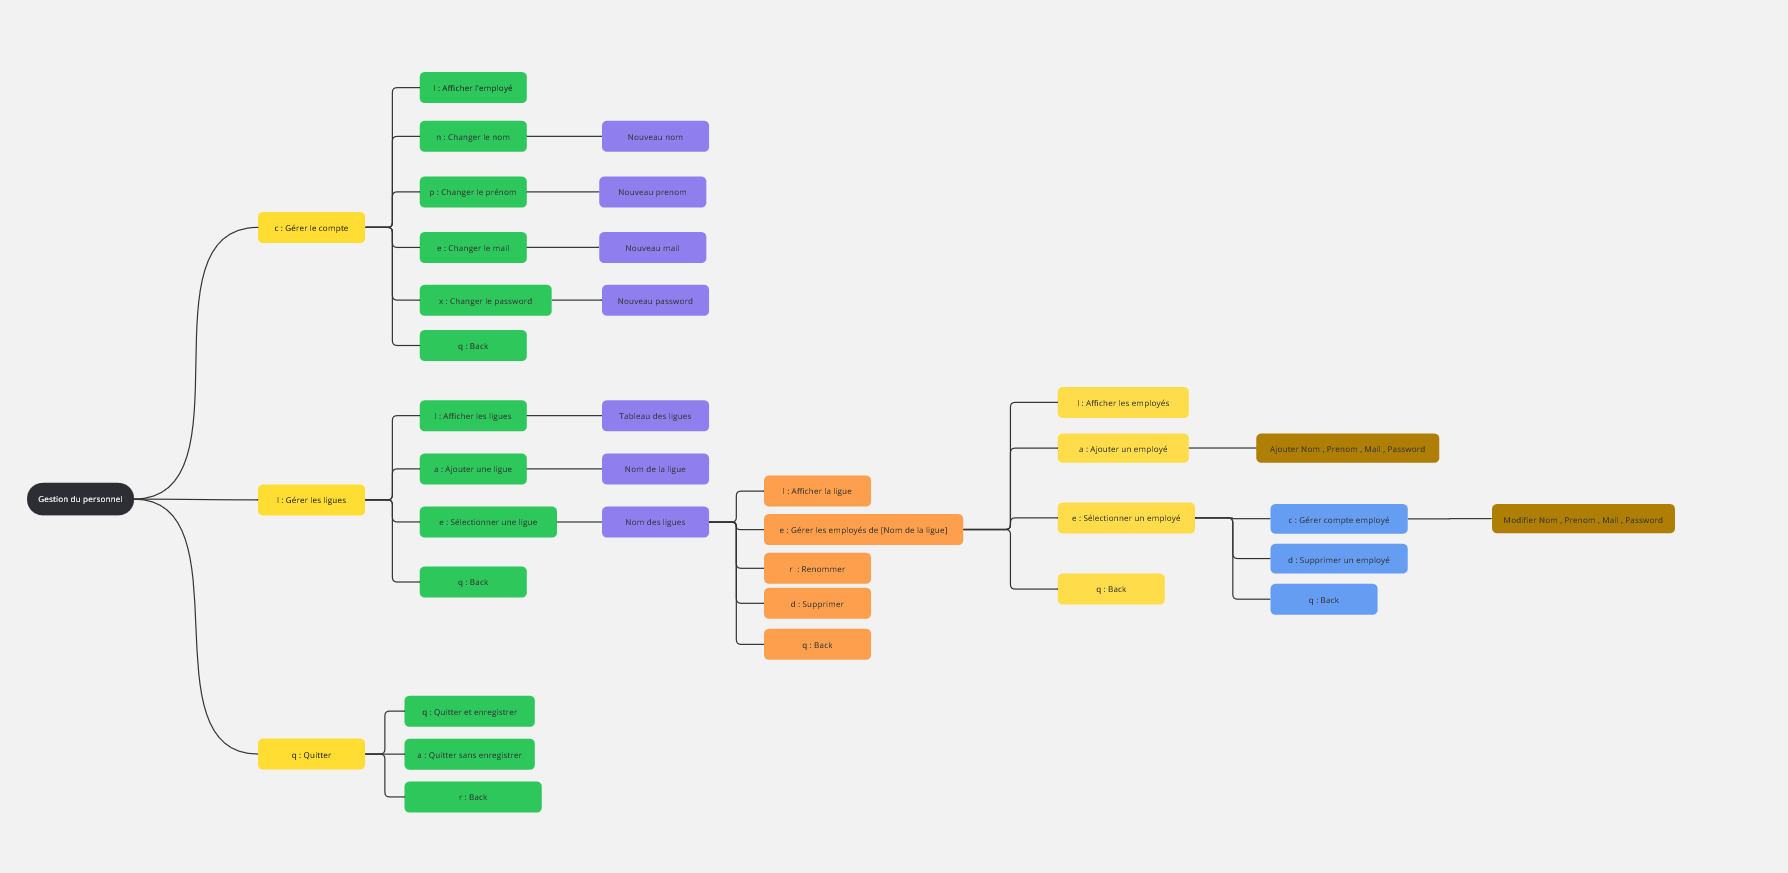
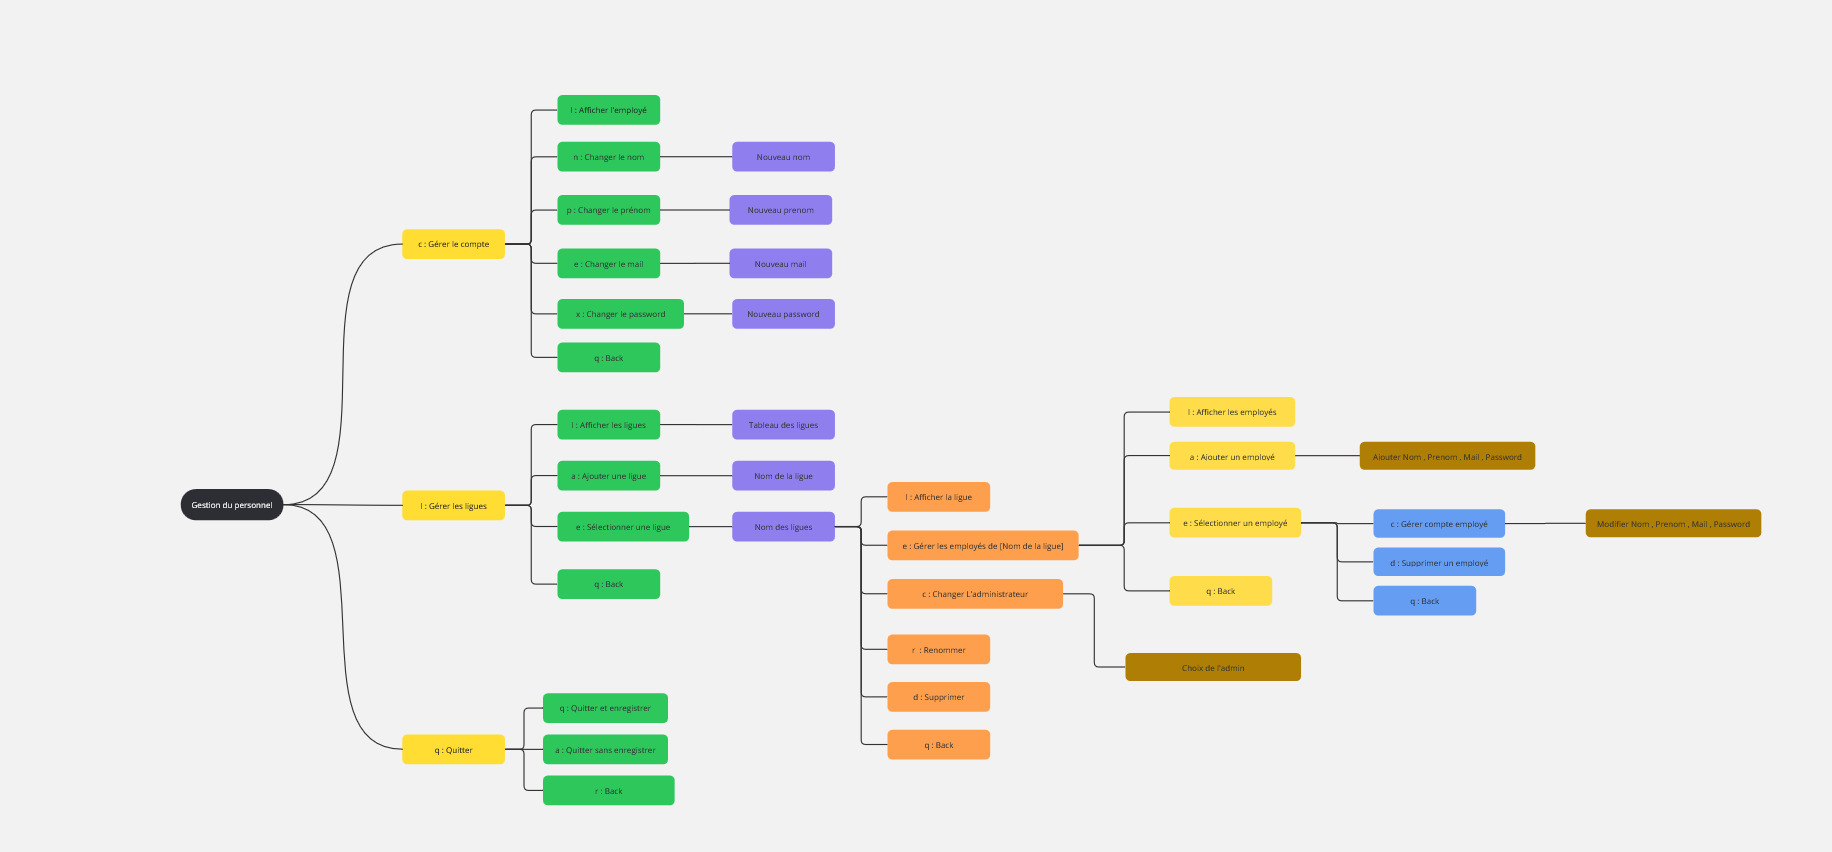
Changement de l'administrateur en ligne de commande et modif de Arbre Heuristique
Offrir la possibilité de modifier l'administrateur d'une ligue depuis le dialogue utilisateur en ligne de commande.
 Mise à jour de  l'arbre heuristique

Changed region(s): [[0.0, 0.061, 0.9843, 0.9155], [0.123, 0.7934, 0.3691, 0.946], [0.6152, 0.7629, 0.7075, 0.8239]]

diff --git a/Personnel/src/commandLine/LigueConsole.java b/Personnel/src/commandLine/LigueConsole.java
@@ -71,7 +71,7 @@ public class LigueConsole
 		Menu menu = new Menu("Editer " + ligue.getNom());
 		menu.add(afficher(ligue));
 		menu.add(gererEmployes(ligue));
-		//menu.add(changerAdministrateur(ligue));
+		menu.add(changerAdministrateur(ligue));
 		menu.add(changerNom(ligue));
 		menu.add(supprimer(ligue));
 		menu.addBack("q");
@@ -150,8 +150,18 @@ public class LigueConsole
 	
 	private List<Employe> changerAdministrateur(final Ligue ligue)
 	{
-		return null;
-	}		
+		return new List<>("Changer l'administrateur", "c", 
+				() -> new ArrayList<>(ligue.getEmployes()),
+				(employe) -> new Option("Définir"+ " " + employe.getNom() + " " +" comme administrateur", "a", 
+						() -> 
+						{
+							ligue.setAdministrateur(employe);
+							System.out.println(employe.getNom() + " " + employe.getPrenom() + 
+									" est maintenant l'administrateur de " + ligue.getNom());
+						}
+				)
+		);
+	}			
 
 	private List<Employe> modifierEmploye(final Ligue ligue)
 	{
